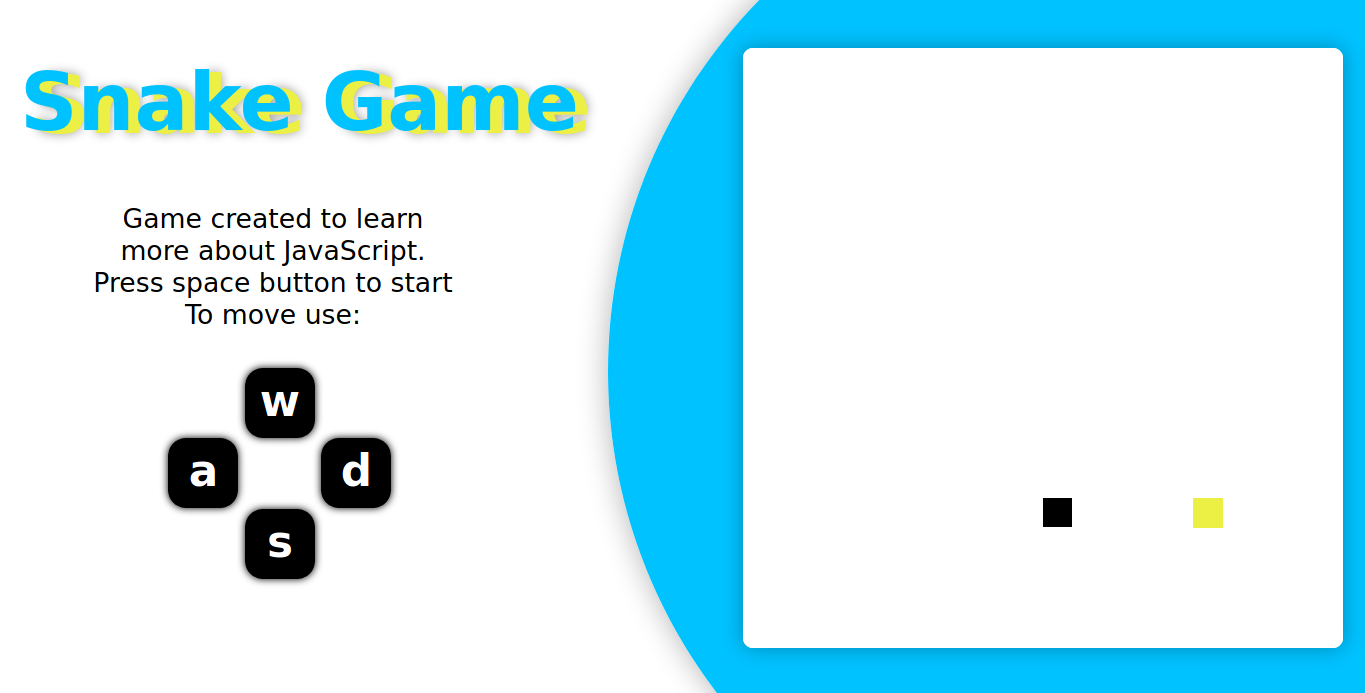
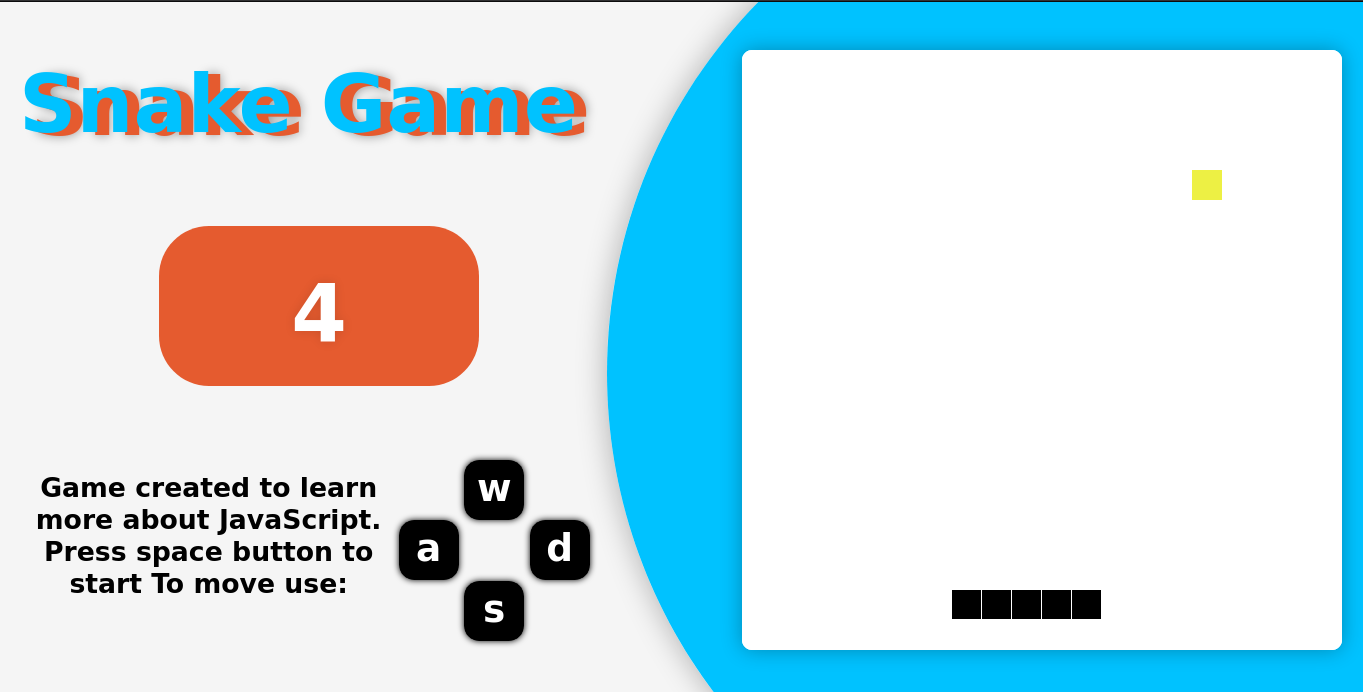
Responsive full hd

diff --git a/Sneak Game/home.css b/Sneak Game/home.css
@@ -169,22 +169,40 @@ canvas {
     .circle {
         top: 0%;
         left: 58%;
-        transform: scale(1.2);
+        transform: scale(1.4);
     }
 
     h1 {
         font-size: 80pt;
     }
 
-    p {
-        margin-left: 500px;
-        left: -9em;
-        top: -1em;
-        font-size: 25pt;
+    .info{
+        top: 20em;
+        left: 15em;
+    }
+    
+        #pontos{
+            margin-top: 0.2em;
+        }
+    
+        canvas {
+            background: #fff;
+            position: relative;
+            top: 13em;
+            right: 7.5em;
+            border-radius: 10px;
+            box-shadow: 0px 0px 20px #0000004b;
+        }
+
+    p{
+        margin-left: 300px;
+        left: -5em;
+        top: 10em;
+        font-size: 35pt;
     }
 
     .buttons {
-        transform: translate(12em, 5em) scale(0.8);
+        transform: translate(40em, 16em) scale(0.8);
     }
 
     #d {
